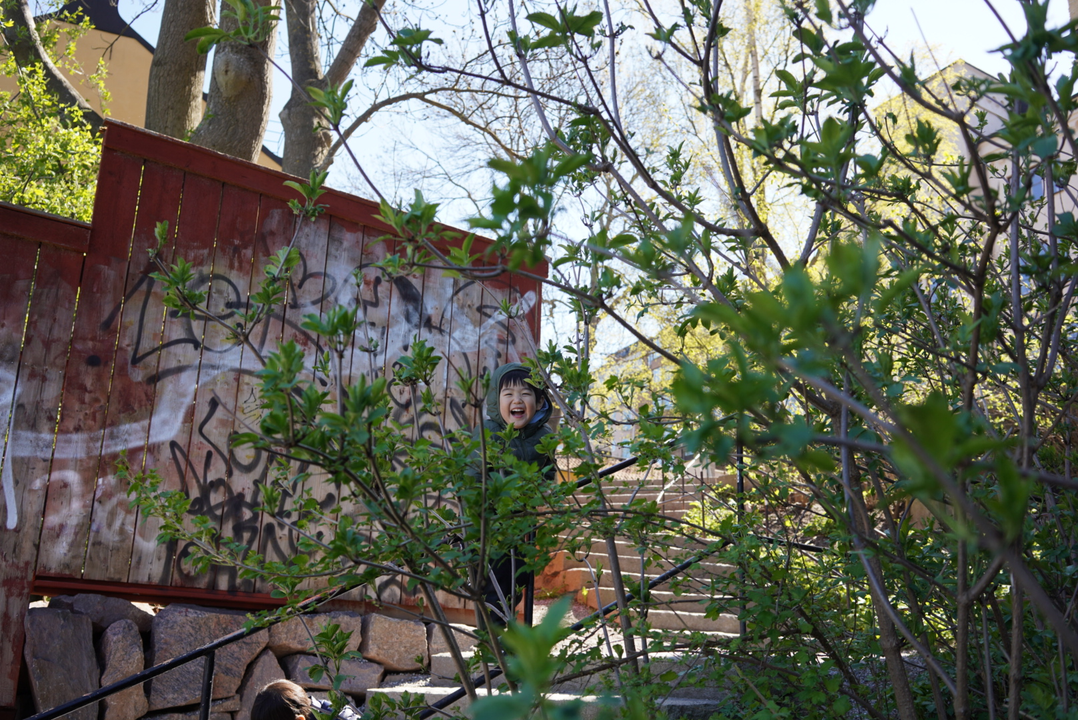
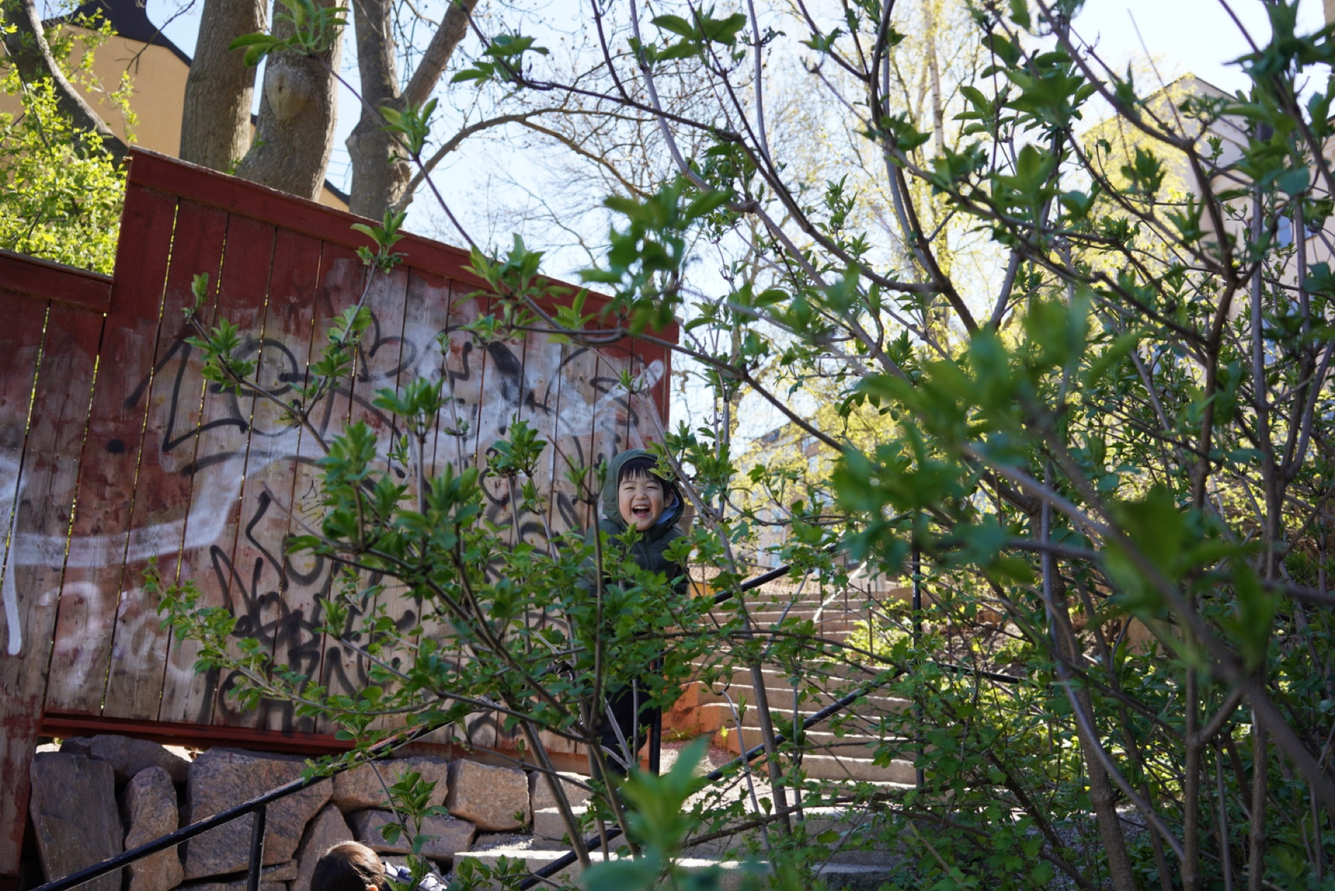
perf: コンセプト画像圧縮 + Google Maps 遅延ロード
【A案：画像圧縮】57MB → 13MB（77%削減）
- assets/images/concept_image/ の12枚を 2000px幅・JPEG quality 85 にリサイズ
- 元画像は assets/images/concept_image_original/ にバックアップ（.gitignore追加）
- 6000×4000の元画像（最大15MB）を 2000px幅・約500KB に
- 主な削減：DSC07367.JPG 15MB→644K / DSC07131.JPG 12MB→548K / DSC07195.JPG 11MB→488K

【B案：Google Maps 遅延ロード】
- js/data-loader.js: spots読込後の即時 initSpotsMap 呼び出しを削除
  → window._wamilyMapData にデータだけ保持
- js/main.js: 「現地で楽しむ」タブの初回クリック時に initSpotsMap を発火
  → 他タブだけ閲覧する人には Maps API（200KB+）がロードされない

【期待効果】
- /concept ページの初期ロード：57MB → 13MB（劇的軽量化）
- 各国ページの初期ロード：Maps API 200KB+ がタブ開閉まで延期
- 「行く前に」タブだけ見る人にとって体感速度が大幅改善

🤖 Generated with [Claude Code](https://claude.com/claude-code)

diff --git a/js/main.js b/js/main.js
@@ -33,13 +33,21 @@ function initTabs() {
       const target = document.getElementById(btn.dataset.tab);
       if (target) target.classList.add('active');
 
-      // Google Maps は非表示タブから表示されると崩れるため resize を発火
-      if (btn.dataset.tab === 'tab-enjoy' && window.google && window.google.maps) {
-        const mapEl = document.getElementById('spots-map');
-        if (mapEl && mapEl._googleMap) {
-          setTimeout(() => {
-            window.google.maps.event.trigger(mapEl._googleMap, 'resize');
-          }, 50);
+      // 「現地で楽しむ」タブの処理：初回は Maps API を遅延ロード、2回目以降は resize 発火
+      if (btn.dataset.tab === 'tab-enjoy') {
+        const mapData = window._wamilyMapData;
+        if (mapData && !window._wamilyMapInitialized && typeof window.initSpotsMap === 'function') {
+          // 初回：ここで初めて Google Maps API + 地図描画
+          window._wamilyMapInitialized = true;
+          window.initSpotsMap(mapData.spots, mapData.slug);
+        } else if (window.google && window.google.maps) {
+          // 2回目以降：非表示タブから表示されると崩れるため resize を発火
+          const mapEl = document.getElementById('spots-map');
+          if (mapEl && mapEl._googleMap) {
+            setTimeout(() => {
+              window.google.maps.event.trigger(mapEl._googleMap, 'resize');
+            }, 50);
+          }
         }
       }
     });

diff --git a/js/data-loader.js b/js/data-loader.js
@@ -272,8 +272,14 @@
         }
       }
 
-      // Google Maps スポット地図を初期化
-      if (typeof window.initSpotsMap === 'function') {
+      // Google Maps スポット地図は「現地で楽しむ」タブが開かれた時に遅延ロード
+      // （main.js の initTabs() で _wamilyMapData を読んで初期化）
+      window._wamilyMapData = { spots: spots, slug: slug };
+
+      // 既にスポットタブが開かれている場合（URL ハッシュ等）はすぐ初期化
+      var enjoyTab = document.getElementById('tab-enjoy');
+      if (enjoyTab && enjoyTab.classList.contains('active') && typeof window.initSpotsMap === 'function') {
+        window._wamilyMapInitialized = true;
         window.initSpotsMap(spots, slug);
       }
     } catch (e) {
